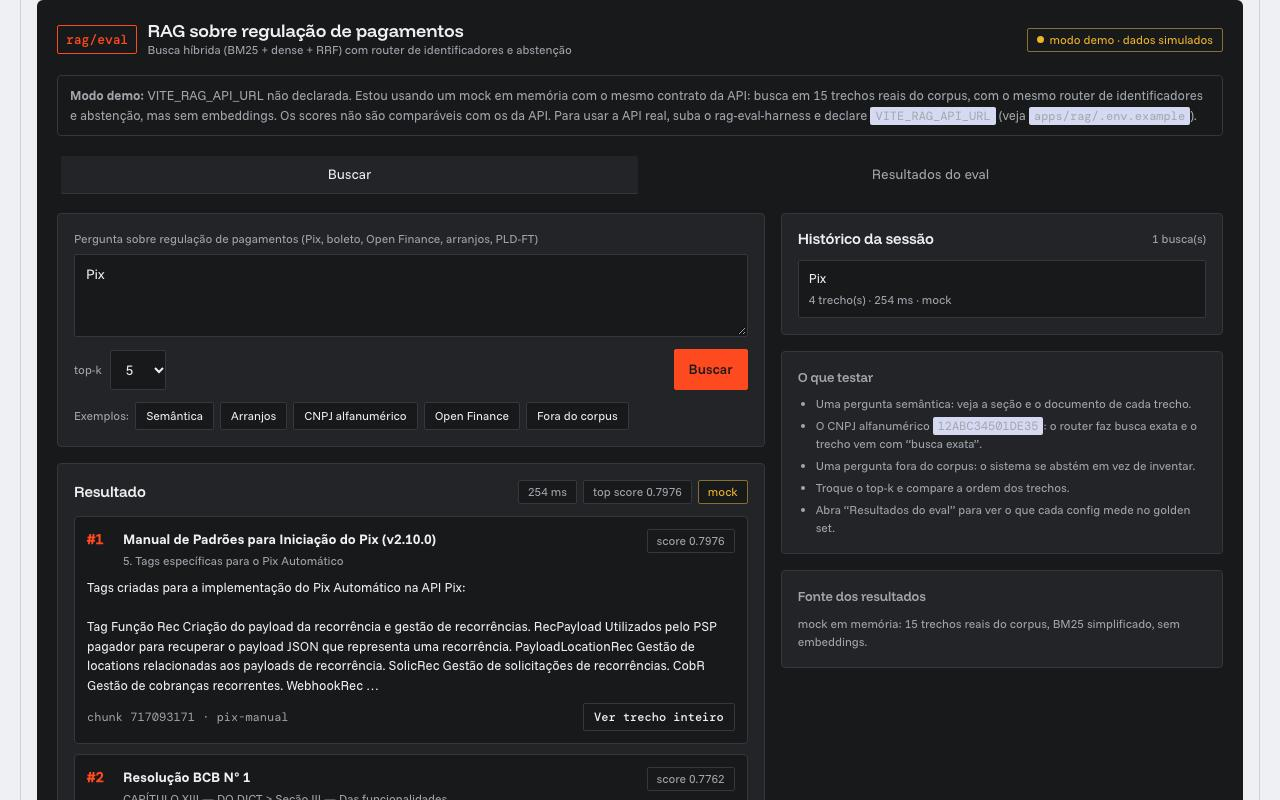
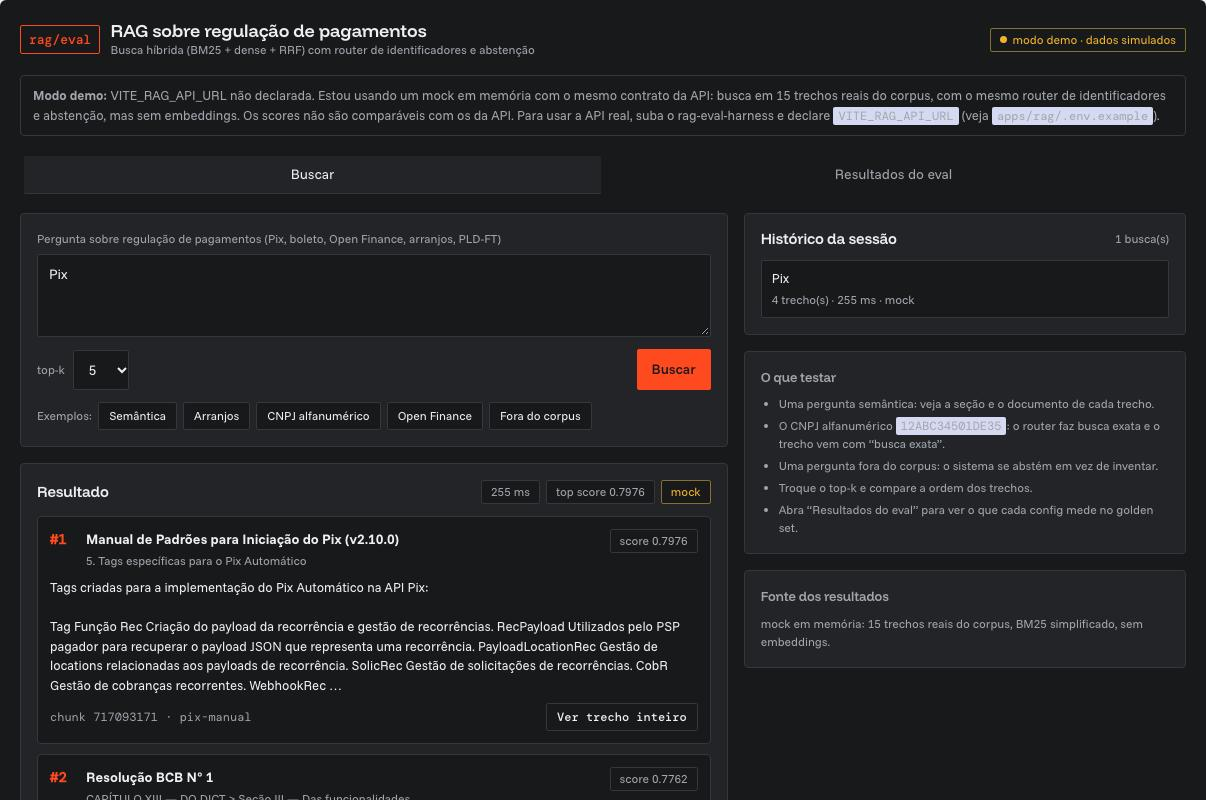
fix(shots): recorta as capturas à caixa do root, sem pixels da página hospedeira

diff --git a/e2e/shots/shots.spec.ts b/e2e/shots/shots.spec.ts
@@ -5,7 +5,7 @@ import { PayOps } from '../tests/fixtures';
 
 /**
  * Gera as capturas estáticas usadas na home (apps em modo demo).
- * frame: 1280×800 a partir do topo do app; crop: 640×480 do mesmo ponto.
+ * frame: até 1280×800 e crop: até 640×480 a partir do canto superior esquerdo do root (nunca além dele).
  */
 const OUT = resolve(import.meta.dirname, '../../apps/portfolio/src/assets/shots');
 mkdirSync(OUT, { recursive: true });
@@ -18,7 +18,15 @@ async function capture(page: Page, root: Locator, name: string) {
   await page.waitForTimeout(600); // animações de entrada
   await root.evaluate((el) => el.scrollIntoView({ block: 'start' }));
   const box = (await root.boundingBox())!;
-  const clip = (w: number, h: number) => ({ x: 0, y: Math.max(0, Math.round(box.y)), width: w, height: h });
+  // Recorte limitado à caixa do root: nenhum pixel da página hospedeira entra na imagem.
+  const x = Math.ceil(box.x);
+  const y = Math.ceil(box.y);
+  const clip = (w: number, h: number) => ({
+    x,
+    y,
+    width: Math.min(w, Math.floor(box.x + box.width) - x),
+    height: Math.min(h, Math.floor(box.y + box.height) - y),
+  });
   const opts = { type: 'jpeg', quality: 75 } as const;
   await page.screenshot({ ...opts, path: `${OUT}/${name}-frame.jpg`, clip: clip(1280, 800) });
   await page.screenshot({ ...opts, path: `${OUT}/${name}-crop.jpg`, clip: clip(640, 480) });
